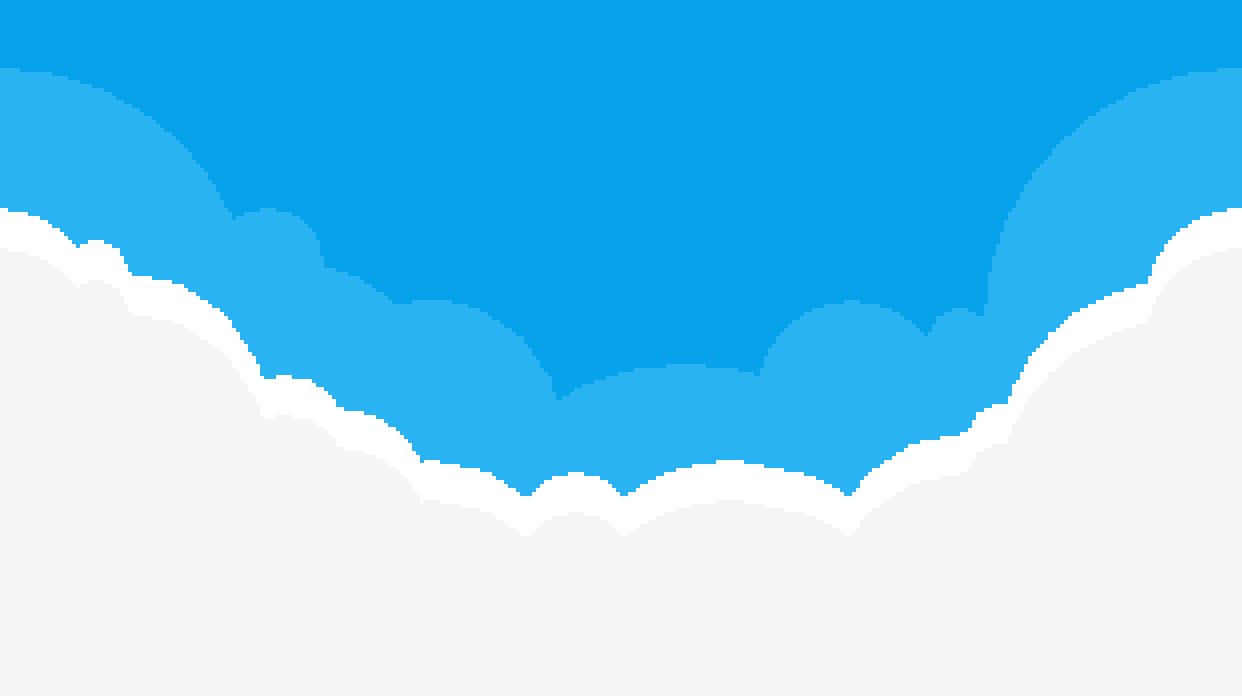
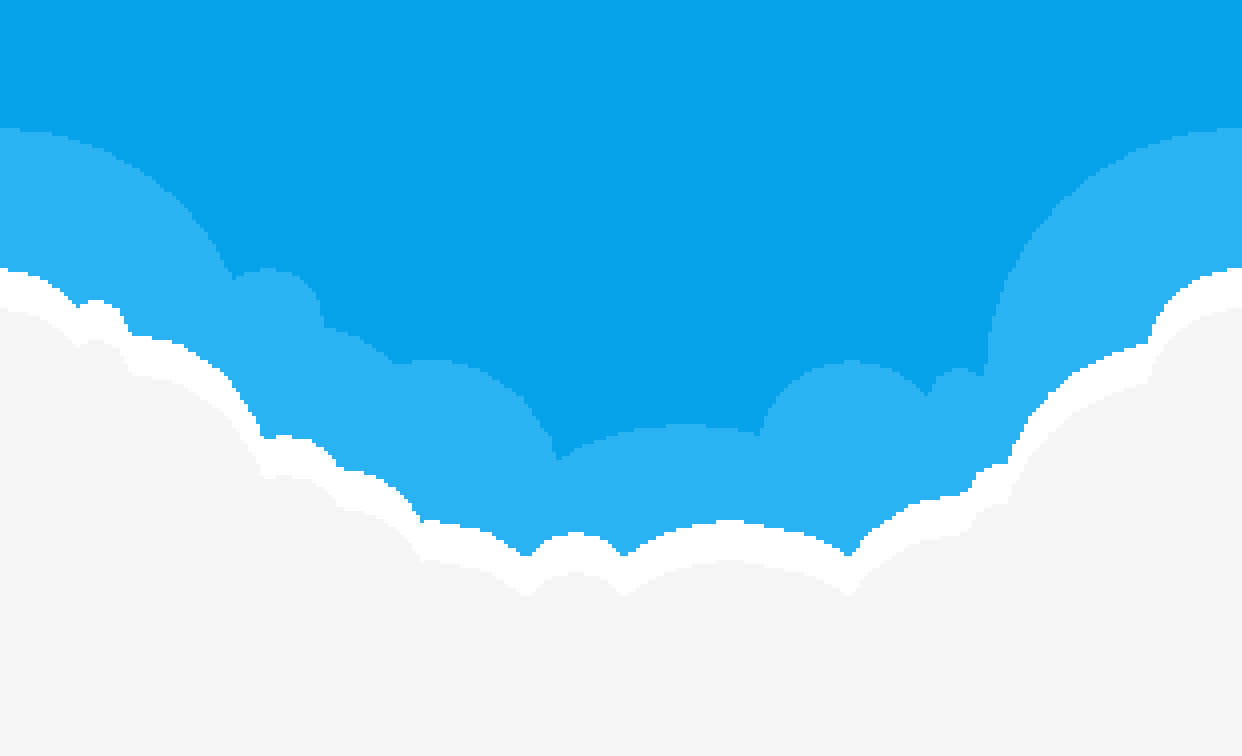
게임화면 높이 880으로 수정

diff --git a/style/style.css b/style/style.css
@@ -53,7 +53,6 @@ html, body small{font-size: 70%;}
     flex-direction: column;
     background-color: #3a413f;
     font-size: 0;
-    padding-top: max(1.5rem, env(safe-area-inset-top));
 }
 
 /* =========================================
@@ -155,7 +154,7 @@ html, body small{font-size: 70%;}
    ========================================= */
 #game-container {
     width: 100%;
-    aspect-ratio: 1248 / 820; 
+    aspect-ratio: 1242 / 880; 
     background-color: transparent;
     position: relative;
     container-type: inline-size; /* 폰트 반응형 크기 조절용 */
@@ -774,12 +773,14 @@ html, body small{font-size: 70%;}
     align-items: center;
     gap: 0.5rem;
     width: 100%;
-    padding-bottom: 2rem;
-    aspect-ratio: 1248 / 820;
+    aspect-ratio: 1242 / 880;
     position: relative;
     container-type: inline-size;
-    background-image: url('../assets/images/home-bg.png');
-    background-size: cover;
+    background-image: url(../assets/images/home-bg.png);
+    background-size: 100%;
+    background-repeat: no-repeat;
+    background-position: bottom;
+    background-color: #0580b9;
 }
 .home .game_title{
     max-width: 14rem;
